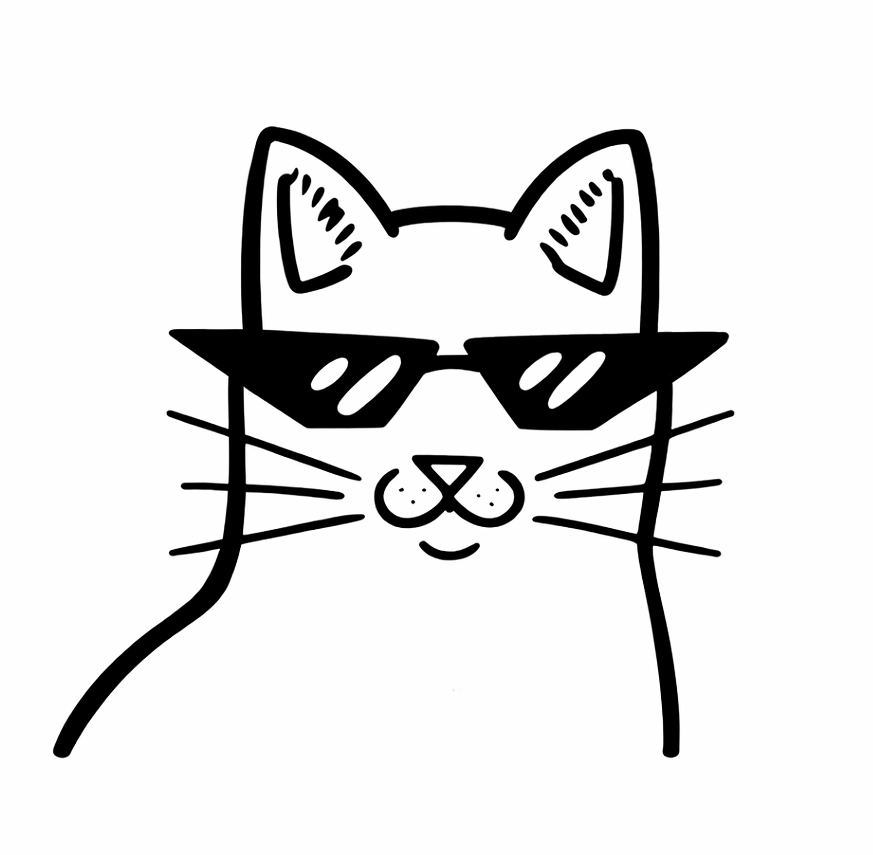
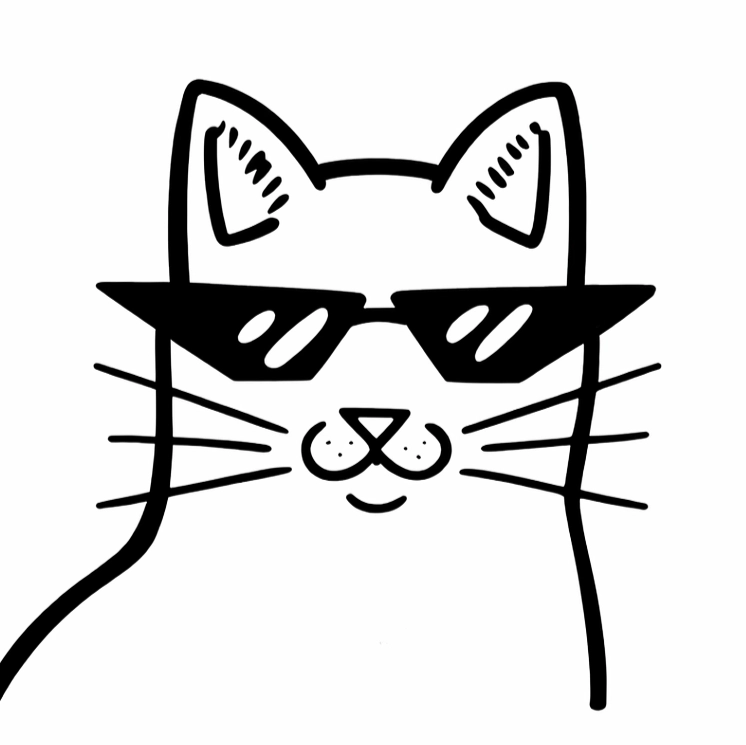
foto responsivo cores

Changed region(s): [[0.0, 0.0926, 0.8941, 0.957]]

diff --git a/src/components/sections/Contact.tsx b/src/components/sections/Contact.tsx
@@ -15,11 +15,15 @@ const infoCards = [
 const socialIconByType = { github: Github, linkedin: Linkedin, email: Mail, website: Globe } as const;
 const mainSocialLinks = socialLinks.filter((s) => ["github", "linkedin", "email"].includes(s.type));
 
-type FormState = { name: string; email: string; message: string };
+const EMAILJS_SERVICE_ID = process.env.NEXT_PUBLIC_EMAILJS_SERVICE_ID;
+const EMAILJS_TEMPLATE_ID = process.env.NEXT_PUBLIC_EMAILJS_TEMPLATE_ID;
+const EMAILJS_PUBLIC_KEY = process.env.NEXT_PUBLIC_EMAILJS_PUBLIC_KEY;
+
+type FormState = { name: string; email: string; subject: string; message: string };
 type Status = "idle" | "sending" | "success" | "error";
 
 export default function Contact() {
-  const [form, setForm] = useState<FormState>({ name: "", email: "", message: "" });
+  const [form, setForm] = useState<FormState>({ name: "", email: "", subject: "", message: "" });
   const [status, setStatus] = useState<Status>("idle");
   const [touched, setTouched] = useState<Partial<Record<keyof FormState, boolean>>>({});
   const [errorMessage, setErrorMessage] = useState<string | null>(null);
@@ -39,9 +43,9 @@ export default function Contact() {
     setErrorMessage(null);
     // Check EmailJS env variables before attempting send
     if (
-      !process.env.NEXT_PUBLIC_EMAILJS_SERVICE_ID ||
-      !process.env.NEXT_PUBLIC_EMAILJS_TEMPLATE_ID ||
-      !process.env.NEXT_PUBLIC_EMAILJS_PUBLIC_KEY
+      !EMAILJS_SERVICE_ID ||
+      !EMAILJS_TEMPLATE_ID ||
+      !EMAILJS_PUBLIC_KEY
     ) {
       setStatus("error");
       setErrorMessage("Email service is not configured. Missing environment variables.");
@@ -50,20 +54,24 @@ export default function Contact() {
     }
     try {
       await emailjs.send(
-        process.env.NEXT_PUBLIC_EMAILJS_SERVICE_ID!,
-        process.env.NEXT_PUBLIC_EMAILJS_TEMPLATE_ID!,
-        { from_name: form.name, from_email: form.email, message: form.message },
-        process.env.NEXT_PUBLIC_EMAILJS_PUBLIC_KEY!
+        EMAILJS_SERVICE_ID,
+        EMAILJS_TEMPLATE_ID,
+        {
+          from_name: form.name,
+          from_email: form.email,
+          subject: form.subject,
+          message: form.message,
+        },
+        EMAILJS_PUBLIC_KEY
       );
       setStatus("success");
-      setForm({ name: "", email: "", message: "" });
+      setForm({ name: "", email: "", subject: "", message: "" });
       setTouched({});
-    } catch (err) {
-      // Capture and show error
+    } catch (error) {
       setStatus("error");
-      const message = (err && (err as any).message) || "Unexpected error sending message.";
-      setErrorMessage(message);
-      console.error("EmailJS send error:", err);
+      console.log("EMAILJS ERROR:", error);
+      setErrorMessage("Erro ao enviar");
+      alert("Erro ao enviar");
     }
   };
 
@@ -71,7 +79,7 @@ export default function Contact() {
     <section id="contact" className="section" style={{ background: "#F1F5F9" }}>
       <div className="container">
         <div style={{ textAlign: "center", marginBottom: 56 }}>
-          <p className="section-label">05 — Contact</p>
+          <p className="section-label">05 ? Contact</p>
           <h2 className="section-title">Let&apos;s <span className="section-title-accent">work together</span></h2>
           <div className="divider" style={{ margin: "16px auto" }} />
           <p style={{ fontFamily: "'Plus Jakarta Sans', system-ui, sans-serif", color: "#64748B", maxWidth: 520, margin: "0 auto", lineHeight: 1.8 }}>
@@ -79,9 +87,9 @@ export default function Contact() {
           </p>
         </div>
 
-        <div style={{ display: "grid", gridTemplateColumns: "1fr 1.5fr", gap: 32, alignItems: "start" }}>
+        <div className="contact-layout" style={{ display: "grid", gridTemplateColumns: "1fr 1.5fr", gap: 32, alignItems: "start" }}>
           {/* Info cards */}
-          <div style={{ display: "flex", flexDirection: "column", gap: 14 }}>
+          <div className="contact-info-column" style={{ display: "flex", flexDirection: "column", gap: 14 }}>
             {infoCards.map(({ icon: Icon, label, value, href, color }) => (
               <div
                 key={label}
@@ -113,7 +121,7 @@ export default function Contact() {
           </div>
 
           {/* Form card */}
-          <div style={{ background: "#fff", border: "2px solid #1E293B", borderRadius: 20, boxShadow: "6px 6px 0px #8B5CF6", padding: "32px 28px" }}>
+          <div className="contact-form-card" style={{ background: "#fff", border: "2px solid #1E293B", borderRadius: 20, boxShadow: "6px 6px 0px #8B5CF6", padding: "32px 28px" }}>
             {status === "success" ? (
               <div style={{ textAlign: "center", padding: "40px 0" }}>
                 <div style={{ width: 64, height: 64, borderRadius: "50%", background: "#34D39918", border: "2px solid #34D399", display: "flex", alignItems: "center", justifyContent: "center", margin: "0 auto 16px" }}>
@@ -143,7 +151,7 @@ export default function Contact() {
                   </div>
                 )}
                 <button type="submit" disabled={!isValid || status === "sending"} className="btn-primary" style={{ opacity: !isValid || status === "sending" ? 0.6 : 1, cursor: !isValid || status === "sending" ? "not-allowed" : "pointer", display: "flex", alignItems: "center", justifyContent: "center", gap: 8 }}>
-                  {status === "sending" ? "Sending…" : <><Send size={15} strokeWidth={2.5} /> Send Message</>}
+                  {status === "sending" ? "Sending?" : <><Send size={15} strokeWidth={2.5} /> Send Message</>}
                 </button>
               </form>
             )}

diff --git a/src/app/globals.css b/src/app/globals.css
@@ -634,6 +634,27 @@ section[id] {
     grid-template-columns: 1fr;
   }
 
+  .contact-layout {
+    grid-template-columns: 1fr !important;
+    gap: 24px !important;
+  }
+
+  .contact-info-column,
+  .contact-form-card {
+    width: 100%;
+    min-width: 0;
+  }
+
+  .contact-form-card {
+    padding: 24px 18px !important;
+    border-radius: 16px !important;
+    box-shadow: 4px 4px 0px #8B5CF6 !important;
+  }
+
+  .field-input {
+    max-width: 100%;
+  }
+
   .card:hover {
     transform: none;
     box-shadow: var(--shadow-pop-sm);